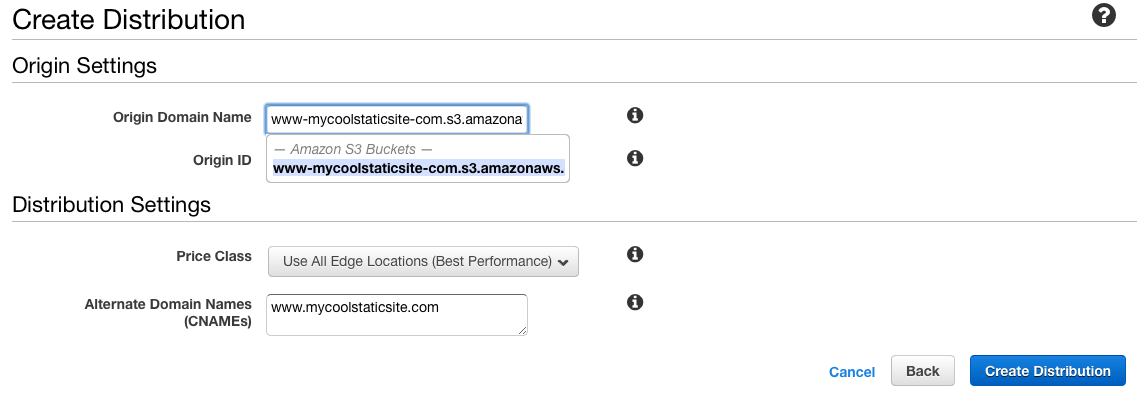
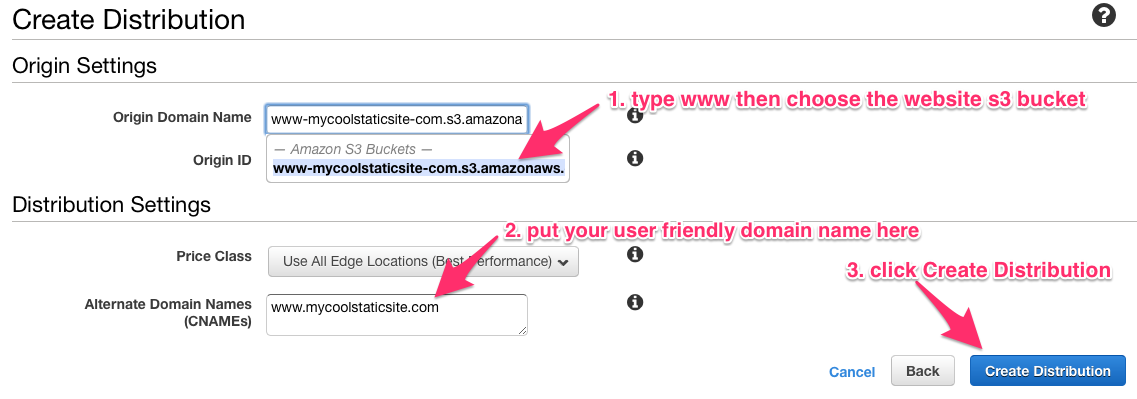
first draft for jekyll integration post

diff --git a/siteSource/_posts/2014-11-23-super-fast-site-blog-with-jekyll-and-statico.html b/siteSource/_posts/2014-11-23-super-fast-site-blog-with-jekyll-and-statico.html
@@ -41,7 +41,7 @@ by_author : 'by <a href="https://twitter.com/mrduguo">Guo Du</a>'
 
 
 <h2 id="local-development">Get it work locally</h2>
-<h3>1. Download source code</h3>
+<h3 id="download-source">1. Download source code</h3>
 <p>
     Get statico.io website <a href="https://github.com/mrduguo/statico-www">source code</a> as a start point. This is how I start this website by clone <a href="https://github.com/twbs/bootstrap">bootstrap</a> git repo. Once you get familiar with the file structure and page components, then start to apply your beautiful design to make it yours.
 {% highlight sh %}
@@ -50,12 +50,13 @@ cd statico-www
 {% endhighlight %}
     Alternatively, you may <a href="https://github.com/mrduguo/statico-www/archive/master.zip">download</a> the latest source code instead of using git.
 </p>
-<h3>2. Generate the site and optimize with statico</h3>
+<h3 id="generate-site-and-optimize">2. Generate the site and optimize with statico</h3>
 <p>
 {% highlight sh %}
 ./optimizer
 
 # After those commands finished successfully, you will see those optimized files from console log:
+#> Generating ...
 #> optimized /blog/index.html in 0.139 seconds
 #> optimized session 82bc1dcfe8a3caa86de2f5387d10ec10 to build/statico-optimized-files/blog/index.html
 #> optimized /document/index.html in 0.231 seconds
@@ -64,7 +65,7 @@ cd statico-www
 #> optimized session f0b23da8f76d7f66a4308cb72af90d50 to build/statico-optimized-files/index.html
 {% endhighlight %}
 </p>
-<h3>3. Development with jekyll watch mode</h3>
+<h3 id="development-with-jekyll-watch">3. Development with jekyll watch mode</h3>
 <p>
     It's important for everything working locally for any web project. Jekyll watch mode was designed to make static site development easy as well. After you run following command, then you may browse the site at <a href="http://0.0.0.0:7112/">http://0.0.0.0:7112/</a>. Any change to site source code will trigger jekyll to regenerate the page in a few seconds.
 {% highlight sh %}
@@ -81,81 +82,63 @@ cd statico-www
 <p>
     It's pretty easy to <a href="https://www.google.com/webhp#q=host+a+static+site+for+FREE">host a static site for FREE</a>. I choose AWS S3 and CloudFront for reliability and speed for visitors around global. It will be more complicated than get the site running locally, but I will have screen shots help you to walk thought those once off setup.
 </p>
-<h3>1. Create S3 Bucket for website</h3>
 <p>
-Sign up an <a href="https://portal.aws.amazon.com/gp/aws/developer/registration/index.html">AWS account</a> if you don't have yet. After login, go to <a href="https://console.aws.amazon.com/s3/home">S3 Management Console</a>.
+    Sign up an <a href="https://portal.aws.amazon.com/gp/aws/developer/registration/index.html">AWS account</a> if you don't have yet. Login to <a href="https://console.aws.amazon.com/s3/home">S3 Management Console</a>.
+</p>
+<h3 id="create-s3-bucket">1. Create S3 Bucket for website</h3>
+<p>
     <ul>
         <li>
-            <div>Click <code>Create Bucket</code> button and it will bring the simple form you need:
-            </div>
+            <div>Create Bucket</div>
             <img src="/assets/images/posts/super-fast-site-blog/create-bucket.png"/>
         </li>
+        <li>
+            <div>Enable website hosting</div>
+            <img src="/assets/images/posts/super-fast-site-blog/support-website-hosting.png"/>
+        </li>
     </ul>
-    {% highlight sh %}
-    git clone https://github.com/mrduguo/statico-www.git
-    cd statico-www
-    ./optimizer
 
-    # After those commands finished successfully, you will see those optimized files from console log:
-    #> optimized /blog/index.html in 0.139 seconds
-    #> optimized session 82bc1dcfe8a3caa86de2f5387d10ec10 to build/statico-optimized-files/blog/index.html
-    #> optimized /document/index.html in 0.231 seconds
-    #> optimized session b342cf5b317c9e8ae9ba87503cc22037 to build/statico-optimized-files/document/index.html
-    #> optimized /index.html in 0.148 seconds
-    #> optimized session f0b23da8f76d7f66a4308cb72af90d50 to build/statico-optimized-files/index.html
-    {% endhighlight %}
 </p>
-<h3>Development with jekyll watch mode</h3>
+<h3 id="release-to-s3">2. Release the site to S3</h3>
 <p>
-    {% highlight sh %}
-    ./optimizer dev
+<ul>
+    <li>
+        Update the bucket name in <code><a href="https://github.com/mrduguo/statico-www/blob/master/config.gradle#L36">config.gradle</a></code> file to be <code>bucketName='www-mycoolstaticsite-com'</code>
+    </li>
+    <li>
+        Then run <code>./optimizer release</code> which will upload to S3 in addition to default <code>./optimizer</code> command:
+{% highlight sh %}
+./optimizer release
 
-    #> STD: Configuration file: jekyll/config.yml
-    #> STD:     Server address: http://0.0.0.0:7112/
-    #> STD:   Server running... press ctrl-c to stop.
-    {% endhighlight %}
-    Then you may browse the site at <a href="http://0.0.0.0:7112/">http://0.0.0.0:7112/</a>
+#> Generating ...
+#> optimized ...
+#> uploaded /build/statico-optimized-files/blog/index.html
+#> uploaded /build/statico-optimized-files/document/index.html
+#> uploaded /build/statico-optimized-files/index.html
+#> uploaded /build/jekyll-generated-site/atom.xml
+#> uploaded /build/jekyll-generated-site/sitemap.xml
+{% endhighlight %}
+    </li>
+    <li>
+        You should be able to see the page live at: <a href="http://www-mycoolstaticsite-com.s3.amazonaws.com/index.html">http://www-mycoolstaticsite-com.s3.amazonaws.com/index.html</a>
+    </li>
+</ul>
 </p>
+<h3 id="distribute-with-cloud-front">3. Distribute with CloudFront</h3>
+<p>
+<ul>
+    <li>
+        <div>Login to <a href="https://console.aws.amazon.com/cloudfront/home">CloudFront Management Console</a> then click <code>Create Distribution</code>:</div>
+        <img src="/assets/images/posts/super-fast-site-blog/cloud-front-method.png"/>
+    </li>
+    <li>
+        <div>Choose the website s3 bucket:</div>
+        <img src="/assets/images/posts/super-fast-site-blog/cloud-front-create.png"/>
+    </li>
+    <li>
+        <div>Create a CNAME for the distribution:</div>
+        <img src="/assets/images/posts/super-fast-site-blog/cloud-front-list.png"/>
+    </li>
+</ul>
 
-
-
-
-* Ruby
-Get site running locally
-Running site locally for development is easy and straight-forward, but there are a few requirements you’ll need to make sure your system has before you start.
-
-Ruby (including development headers)
-RubyGems
-Jekyll
-Java
-
-Make sure you have decent ruby / java[1.6+] installed.
-install jekyll
-http://jekyllrb.com
-
-statico.io homepage and blog is as fast as google homepage, because it's was generated as static HTML at publish time by jekyll and optimized by statio. The site was stored at S3 and delivered by CloudFront so everyone around the global can enjoy the same fast. It's perfect for marketing sites and blogs.
-
-Publish the site to the world
-
-Why it is fast
---------------
-To build a site with top performance, all things has to work together with best
-
-
-
-The Cost
-------------------
-
-Dynamically
-http://kylerush.net/blog/super-fast-architecture/
-
-
-http://speckyboy.com/2012/02/22/good-old-static-html-sites-arent-dead-yet-should-they-be/
-https://engineering.gosquared.com/gosquared-static-website
-http://www.michaelgallego.fr/blog/2013/08/27/static-website-on-s3-cloudfront-and-route-53-the-right-way/
-https://davidmichaelross.com/blog/learn-from-static-site-generators/
-
-Speed is more than a feature. Speed is the most important feature. If your application is slow, people won’t use it...
-There is real empirical evidence that substantiates the fact that speed is more than a feature. It’s a requirement.
-Fred Wilson
-http://estelle.github.io/rwdpanacea/#slide27
+</p>

diff --git a/siteSource/assets/vendors/pygments-20140920/pygments-manni.css b/siteSource/assets/vendors/pygments-20140920/pygments-manni.css
@@ -70,6 +70,7 @@
 
 .highlight {
     padding: 9px 14px;
+    margin-top: 4px;
     margin-bottom: 14px;
     background-color: #f7f7f9;
     border-radius: 4px;
